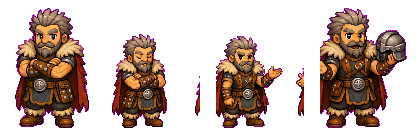
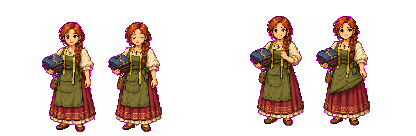
Rebuild Camp Market and clarify safe-zone characters

diff --git a/src/main.js b/src/main.js
@@ -5,7 +5,7 @@ const TILE = 12;
 const WORLD_W = 27600;
 const WORLD_GRAVITY = 1300;
 const WORLD_H = 720;
-const ASSET_VERSION = '136';
+const ASSET_VERSION = '138';
 const JUMP_VELOCITY = -570;
 const UI_FONT = 'system-ui, -apple-system, BlinkMacSystemFont, "Segoe UI", sans-serif';
 const MAP_DEFINITIONS = {
@@ -113,7 +113,7 @@ const MAP_DEFINITIONS = {
     exits:[{x:60,to:'moonlit_boughs',spawn:'right',label:'MOONLIT BOUGHS'},{x:420,to:'stonewatch',spawn:'right',label:'WATCH MINE BRANCH'},{x:900,to:'whispering_range',spawn:'right',label:'HOLLOW TREE DESCENT',secret:true}],
     npcs:[],enemies:[[550,634,400,760,'starcrawler'],[1060,634,900,1210,'stonepup']],berries:[[330,544],[570,484],[792,424],[1026,364]],chests:[[1220,372]],
   },
-  sprout_market:{id:'sprout_market',kind:'interior',showOnWorldMap:false,art:'sprout-camp',x:22200,width:800,region:'dawnleaf',terrainTint:0xb77a4c,label:'SPROUT CAMP • CAMP MARKET',spawn:{door:[400,594]},platforms:[[108,564,180],[512,564,180]],exits:[{x:400,to:'sprout_camp',spawn:'camp',label:'BACK TO SPROUT CAMP'}],npcs:[{x:198,frame:1,name:'PERRIN',role:'POTION SELLER',type:'shop_potion'},{x:602,frame:2,name:'TESSA',role:'ARMOR SELLER',type:'shop_armor'}],enemies:[],berries:[],chests:[]},
+  sprout_market:{id:'sprout_market',kind:'interior',showOnWorldMap:false,art:'sprout-camp',x:22200,width:800,region:'dawnleaf',terrainTint:0xb77a4c,label:'SPROUT CAMP • CAMP MARKET',spawn:{door:[400,594]},platforms:[],exits:[{x:400,to:'sprout_camp',spawn:'camp',label:'BACK TO SPROUT CAMP'}],npcs:[{x:198,frame:1,name:'PERRIN',role:'POTION SELLER',type:'shop_potion'},{x:602,frame:2,name:'TESSA',role:'ARMOR SELLER',type:'shop_armor'}],enemies:[],berries:[],chests:[]},
   tide_market:{id:'tide_market',kind:'interior',showOnWorldMap:false,art:'tidehollow',x:23100,width:800,region:'dawnleaf',terrainTint:0x9c6948,label:'TIDEHOLLOW • HARBOR SHOPS',spawn:{door:[400,594]},platforms:[[108,564,180],[512,564,180]],exits:[{x:400,to:'tidehollow',spawn:'left',label:'BACK TO TIDEHOLLOW'}],npcs:[{x:198,frame:1,name:'MARLO',role:'POTION SELLER',type:'shop_potion'},{x:602,frame:2,name:'VENA',role:'ARMOR SELLER',type:'shop_armor'}],enemies:[],berries:[],chests:[]},
   gull_market:{id:'gull_market',kind:'interior',showOnWorldMap:false,art:'gullhaven',x:24000,width:800,region:'crownwind',terrainTint:0x765a49,label:'GULLHAVEN • DOCK MARKET',spawn:{door:[400,594]},platforms:[[108,564,180],[512,564,180]],exits:[{x:400,to:'gullhaven',spawn:'dock',label:'BACK TO GULLHAVEN'}],npcs:[{x:198,frame:1,name:'CORAL',role:'POTION SELLER',type:'shop_potion'},{x:602,frame:2,name:'HOLT',role:'ARMOR SELLER',type:'shop_armor'}],enemies:[],berries:[],chests:[]},
   stone_market:{id:'stone_market',kind:'interior',showOnWorldMap:false,art:'stonewatch',x:24900,width:800,region:'crownwind',terrainTint:0x665c59,label:'STONEWATCH • FORGE ROW',spawn:{door:[400,594]},platforms:[[108,564,180],[512,564,180]],exits:[{x:400,to:'stonewatch',spawn:'mentor',label:'BACK TO STONEWATCH'}],npcs:[{x:198,frame:1,name:'EMBER',role:'POTION SELLER',type:'shop_potion'},{x:602,frame:2,name:'ANVIL',role:'ARMOR SELLER',type:'shop_armor'}],enemies:[],berries:[],chests:[]},
@@ -195,7 +195,7 @@ const NPC_LAYOUTS={
   stonewatch:{BRANN:[240,660],EMBER:[600,612],ANVIL:[760,564],ROOK:[900,516],IONE:[1150,420]},
   greenbloom:{LYRA:[260,660],SAGE:[600,612],FERN:[740,564],WREN:[900,516],TOBI:[1090,468]},
   starwillow:{ORIN:[250,660],MOTE:[540,612],VELA:[660,564],ELIO:[900,468],SURI:[1120,564]},
-  sprout_market:{PERRIN:[198,564],TESSA:[602,564]}, tide_market:{MARLO:[198,564],VENA:[602,564]},
+  sprout_market:{PERRIN:[238,660],TESSA:[562,660]}, tide_market:{MARLO:[198,564],VENA:[602,564]},
   gull_market:{CORAL:[198,564],HOLT:[602,564]}, stone_market:{EMBER:[198,564],ANVIL:[602,564]},
   green_market:{SAGE:[198,564],FERN:[602,564]}, star_market:{MOTE:[198,564],VELA:[602,564]},
 };
@@ -427,6 +427,7 @@ class SkyberryHollow extends Phaser.Scene {
     const startAdventure=event=>{
       this.audio.start();
       this.playerName=(event.detail?.name||'Lumi').slice(0,14);
+      if(this.playerNameTag)this.playerNameTag.setText(this.playerName.toUpperCase());
       this.chapterStartedAt=this.time.now;
       if(!new URLSearchParams(window.location.search).has('map'))this.enterMap('sprout_camp','camp',true);
       this.refreshHud();this.requestInventoryRefresh();
@@ -445,6 +446,7 @@ class SkyberryHollow extends Phaser.Scene {
     this.paperdollAnchors = this.cache.json.get('paperdoll-anchors');
     this.capeLayer = this.add.sprite(108, 594, 'cape-indigo-motion', 0).setDepth(3.3);
     this.player = this.physics.add.sprite(108, 594, 'body-motion', 0).setVisible(false).setCollideWorldBounds(true).setSize(44, 84).setOffset(26, 42);
+    this.playerNameTag=crispText(this.add.text(108,642,this.playerName.toUpperCase(),{fontFamily:UI_FONT,fontSize:'11px',fontStyle:'bold',color:'#fff6d5',backgroundColor:'rgba(27,43,69,.9)',padding:{x:5,y:2},stroke:'#273753',strokeThickness:1}).setOrigin(.5).setDepth(7));
     this.bodyLayer = this.add.sprite(108, 594, 'body-motion', 0).setDepth(4);
     this.clothesLayer = this.add.sprite(108, 594, 'clothes-traveler-motion', 0).setDepth(4.4);
     this.hatLayer = this.add.sprite(108, 594, 'hat-traveler-motion', 0).setDepth(5);
@@ -793,6 +795,7 @@ class SkyberryHollow extends Phaser.Scene {
     this.bodyLayer.setPosition(Math.round(this.player.x), Math.round(this.player.y))
       .setOrigin(originRoot / anchor.width, anchor.originY)
       .setFlipX(this.player.flipX);
+    if(this.playerNameTag)this.playerNameTag.setPosition(Math.round(this.player.x),Math.round(this.player.y+49));
   }
 
   syncEquipmentLayers() {
@@ -1087,14 +1090,7 @@ class SkyberryHollow extends Phaser.Scene {
       const platformMeta=this.platformSurfaces[map.art];
       const groundHeight=platformMeta.groundHeight;
       if(map.kind==='interior'){
-        this.add.image(map.x+map.width/2,360,`shop-interior-${map.id}`).setDisplaySize(map.width,600).setDepth(-7);
-        this.add.rectangle(map.x+map.width/2,360,map.width,600,Phaser.Display.Color.ValueToColor(map.terrainTint).darken(34).color,.98).setDepth(-6);
-        this.add.rectangle(map.x+map.width/2,168,map.width-72,18,0xead49a,.9).setDepth(-5);
-        [72,304,496,728].forEach(localX=>this.add.rectangle(map.x+localX,360,16,384,0x513b38,.9).setDepth(-5));
-        [198,602].forEach(localX=>{
-          this.add.rectangle(map.x+localX,410,210,150,0x332b38,.78).setStrokeStyle(4,0xe5c67e).setDepth(-4);
-          this.add.rectangle(map.x+localX,478,170,14,0xd1a45e,1).setDepth(-3);
-        });
+        this.add.image(map.x+map.width/2,360,`shop-interior-${map.id}`).setDisplaySize(map.width,600).setDepth(1.5);
       }
       this.add.tileSprite(map.x+map.width/2,660,map.width,groundHeight,`ground-${map.id}`)
         .setOrigin(.5,0).setDepth(2);

diff --git a/index.html b/index.html
@@ -4,7 +4,7 @@
     <meta charset="UTF-8" />
     <meta name="viewport" content="width=device-width, initial-scale=1.0" />
     <title>Skyberry Hollow</title>
-    <link rel="stylesheet" href="./style.css?v=136" />
+    <link rel="stylesheet" href="./style.css?v=138" />
   </head>
   <body>
     <section id="welcome" class="welcome" aria-labelledby="welcome-title">
@@ -34,7 +34,7 @@
       </section>
     </main>
     <script src="https://cdn.jsdelivr.net/npm/phaser@3.90.0/dist/phaser.min.js"></script>
-    <script src="./src/main.js?v=136"></script>
+    <script src="./src/main.js?v=138"></script>
     <script>
       const welcome=document.querySelector('#welcome'),nameInput=document.querySelector('#hero-name');
       nameInput.value=localStorage.getItem('skyberry_name')||'Lumi';

diff --git a/scripts/pack_imagegen_npc.py b/scripts/pack_imagegen_npc.py
@@ -1,0 +1,36 @@
+#!/usr/bin/env python3
+"""Pack a 2x2 transparent ImageGen NPC atlas into the 104x136 runtime grid."""
+import argparse
+from pathlib import Path
+from PIL import Image
+
+
+def main():
+    parser = argparse.ArgumentParser()
+    parser.add_argument("input", type=Path)
+    parser.add_argument("output", type=Path)
+    args = parser.parse_args()
+    source = Image.open(args.input).convert("RGBA")
+    cell_w, cell_h = source.width // 2, source.height // 2
+    cells = [source.crop((col * cell_w, row * cell_h, (col + 1) * cell_w, (row + 1) * cell_h)) for row in range(2) for col in range(2)]
+    bounds = [cell.getchannel("A").getbbox() for cell in cells]
+    if any(bound is None for bound in bounds):
+        raise SystemExit("Every frame must contain an opaque subject")
+    max_w = max(bound[2] - bound[0] for bound in bounds)
+    max_h = max(bound[3] - bound[1] for bound in bounds)
+    scale = min(96 / max_w, 128 / max_h)
+    sheet = Image.new("RGBA", (104 * 4, 136), (0, 0, 0, 0))
+    for index, (cell, bound) in enumerate(zip(cells, bounds)):
+        subject = cell.crop(bound)
+        size = (max(1, round(subject.width * scale)), max(1, round(subject.height * scale)))
+        subject = subject.resize(size, Image.Resampling.NEAREST)
+        x = index * 104 + (104 - size[0]) // 2
+        y = 132 - size[1]
+        sheet.alpha_composite(subject, (x, y))
+    args.output.parent.mkdir(parents=True, exist_ok=True)
+    sheet.save(args.output, optimize=False)
+    print(f"packed {args.output} at {sheet.size[0]}x{sheet.size[1]}")
+
+
+if __name__ == "__main__":
+    main()